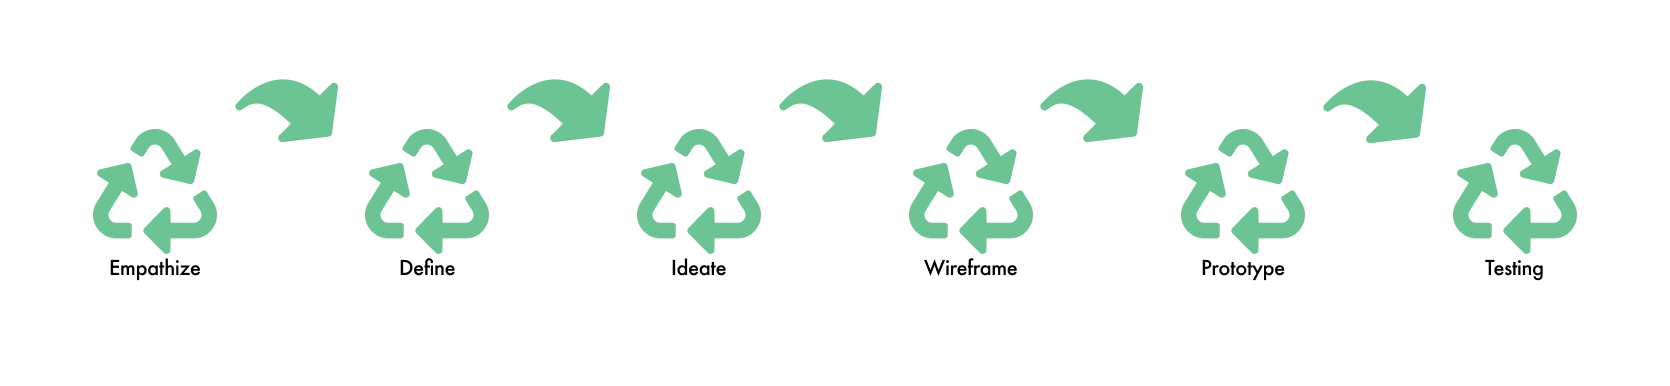
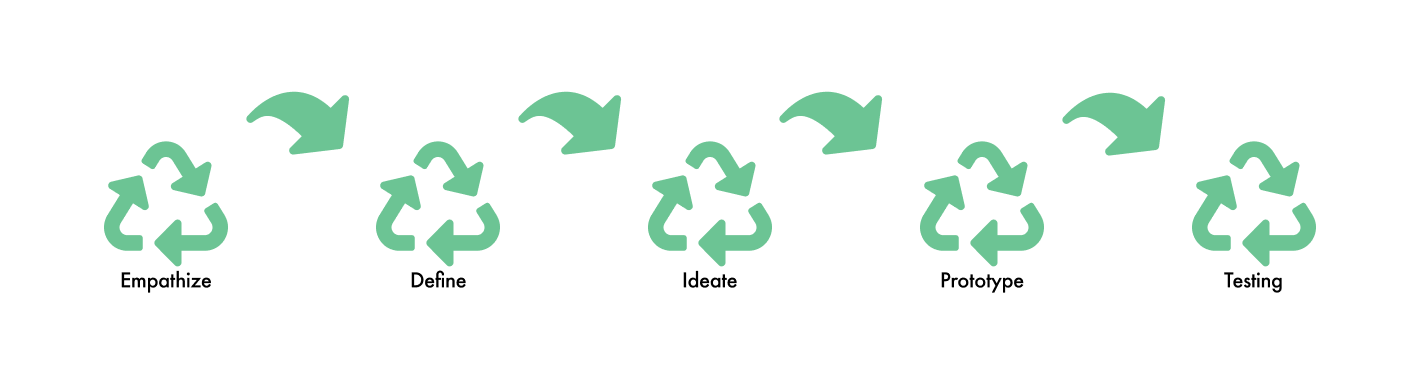
dec 23

diff --git a/wastefree.html b/wastefree.html
@@ -35,7 +35,7 @@
     <div class="main-content">
         <div class="introduction">
             <p style="font-family: 'Segoe UI', Tahoma, Geneva, Verdana, sans-serif; font-size: 2rem;">WasteFree</p>
-            <p style="font-size: 1.2rem;">As Global Warming continues year after year. We need to do someting to protect mother earth. I make take-out orders every week, and I usually have a hard time recycling. I asked some of my friends who order deliveries a lot and also have problems sorting different materials since there are so many different types of recycled materials out there. That's why I create this WasteFree app, which can help people recycle better.</p>   
+            <p style="font-size: 1.2rem;">Due to a family visit to San Francisco, I spent a week in downtown SF.  I noticed that the building where I was staying near Union Square, even has two separate trash chutes(recycle and waste), but I still can see people throwing to-go boxes in the waste chute.  As Global Warming continues year after year. I think we need to figure out a way that helps people recycle better. </p>   
         </div>
         <div class="role-intro">
             <div class='role-title'>
@@ -52,13 +52,14 @@
             </div>
             <img src="images/project-recycle/hero-image.png" alt="hero image">  
         </div>
+        <p style="font-size: 1.2rem;">Based on my experience, I came up with some hypotheses that why people don't recycle. What challenges do they face? What are the goals do I want to accomplish.</p>
         <div class="problem">
-            <h2>Problems</h2>
+            <h2>Challenges</h2>
             <div>
                 <p class="problem-content">
                     <ul>
-                        <li>People don't know where to find the recycle information</li>
-                        <li>People are overwhelmed by all the recycling information</li>
+                        <li>Sort waste is time-consuming.</li>
+                        <li>No one tells them whether they do it right or wrong.</li>
                     </ul>
                 </p>
             </div>
@@ -68,8 +69,7 @@
             <div>
                 <p class=goal-content"">
                     <ul>
-                        <li>Encourage people to sort waste</li>
-                        <li>Educate people to recycle correctly</li>
+                        <li>Educate people to recycle correctly.</li>
                     </ul> 
                 </p>
             </div>
@@ -79,18 +79,24 @@
             <img src="images/project-recycle/design-process.png" alt="design process image">
         </div>
         <div class="empathize">
-            <h2>Empathize</h2>
-            <p>I interviewed 5 people to get a better understanding of how do they recycle. From the results, I distilled their behaviors into personas that I got these two type of users.</p>
-            <img src="images/project-recycle/persona.png" alt="userpersonas">
-            <h2>Define</h2>
-            <p>According to the data I got from 5 people I interviewed. Users' problems didn't change, However, I added One more goal to my app.</p>
+            <h2>1. Empathize</h2>
+            <p>With the above hypotheses in mind, I interviewed five people to better understand users' challenges. Interviees aging 22-46 years old are working in different fields and order to-go meals every week. They are my target users. The finding are shocking.</p>
+            <p style="font-size: 1.2rem; font-weight: 600;">Key Findings: <a style="font-size: 0.8rem; color:blue; text-decoration: underline;" href="https://docs.google.com/spreadsheets/d/1Up2N3r5jWXDqXTjsJuFLJjip0Img81lVeabAAAy2P-c/edit?usp=sharing">Click to check out the whole interview</a></p>
+            <ul>
+                <li>People who think recycling is easy but think they didn't do it right.</li>
+                <li>People recycle materials based on their experience.</li>
+                <li>People have a hard time telling if some materials are recyclable.</li>
+            </ul>
+            <img src="images/project-recycle/user-keyfindings.png" alt="user interview key findings">
+            <h2>2. Define</h2>
+            <p>According to the data I got from 5 people I interviewed. I defined the user problems and goals.</p>
             <div class="problems">
                 <h3 style="text-align: center;">Problems Defined After User Research</h3>
                 <div>
                     <p class="problem-content">
                         <ul>
-                            <li>People don't know where to find the recycle information</li>
-                            <li>People are overwhelmed by all the recycling information</li>
+                            <li>People have a hard time finding recycled information through recycling websites.</li>
+                            <li>People are overwhelmed by all the recycling information.</li>
                         </ul>
                     </p>
                 </div>
@@ -98,57 +104,64 @@
         </div>
             <div class="goals">
                 <div class="goal-changed-1">
-                    <h3>Goals Before User Research</h3>
+                    <h3 style="text-align: center;">Goals Before User Research</h3>
                     <div>
                         <p class=goal-content"">
                             <ul>
-                                <li>Encourage people to sort waste</li>
                                 <li>Educate people to recycle correctly</li>
                             </ul> 
                         </p>
                     </div>
                 </div>
                 <div class="goal-changed">
-                    <h3>Goals After User Research</h3>
+                    <h3 style="text-align: center;">Goals After User Research</h3>
                     <div>
                         <p class=goal-content"">
                             <ul>
-                                <li>Encourage people to sort waste</li>
-                                <li>Educate people to recycle correctly</li>
-                                <li>Find volunteering opportunities</li>
+                                <li>Find an easier way to help people to sort waste.</li>
+                                <li>Encourage people to recycle better.</li>
                             </ul> 
                         </p>
                     </div>
                 </div>
             </div>
+            <img src="images/project-recycle/Userpersona.png" alt="user persona" class="persona">
         <div class="competitive-audit">
             <h3>Competitive Audit</h3>
-            <p>Most sustainability-related applications online right now such as <span style="color: darkgreen; font-size:1.5rem; font-weight: 600; font-style: italic">iRecycle, Recycle Coach, Recycle! </span> are focused on tracking recycling trucks and locating your nearby recycling bins. I dug into user's reviews from those competitor apps, finding out to keep my app "clean, clear and easy to use". Those user liked features will be the top priorities of this Wastefree app.</p>
-            <img src="images/project-recycle/competitior.png" alt="competitor-audit">
-            <img src="images/project-recycle/user-experience.png" alt="user-reviews-from-competitor">
+            <p>Most sustainability-related applications online right now such as <span style="color: darkgreen; font-size:1.5rem; font-weight: 600; font-style: italic">iRecycle, Recycle Coach, Recycle! </span> are focused on tracking recycling trucks and locating your nearby recycling bins. I dug into user's reviews from those competitor apps,and did a competitive analysis and found out the following:</p>
+            <p style="font-size: 1.2rem; font-weight: 600;">Key Findings: 
+            <ul>
+                <li>Users think a reminder of recycling pick-up is a great touch but sometimes the reminder is not accurate.</li>
+                <li>Users like the feature of "find nearby recycling center".</li>
+                <li>There should have a sorting guide that users can search a specific material.</li>
+            </ul>
+            <h4>Some good features from competitors apps</h4>
+            <img src="images/project-recycle/competitive-audit.png" alt="Competitor Audit">
+            <h3>Because the goal of the WasteFree app is to find an easier way to help people to sort waste and to educate people to recycle better. I combined users goals and competitive audit, accumulating the core features of my app:</h3>
+            <ol>
+                <li>Scan to sort waste:  Save users time to figure out which material is recyclable without scanning through all sorting guide.</li>
+                <li>Save scanned results:  Reinforce users to memorize the material next time.</li>
+                <li>Nearby Waste Disposable Center: Helps user to locate the recycling center and give directions on specific maps.</li>
+                <li>Recycling news: Helps users improve their sustainability and recycling rate.</li>
+                <li>Volunteering opportunity: Connects users with others to learn and recycle better in the future.</li>
+            </ol>
         </div>
         <div class="ideate">
-            <h2>Ideate</h2>
+            <h2>3. Ideate</h2>
             <p>To refine core features in Wastefree app, I used the Design Sprint method "Crazy Eight" to fast sketch 8 wireframes.</p>
             <div class="ideate-crazy8">
                 <img src="images/project-recycle/crazy8.jpg" alt="crazy-8-image1">
                 <img src="images/project-recycle/crazy81.jpg" alt="crazy-8-image2">
             </div>
-            <ol><h3>Core features include:</h3>
-                <li>Scan to sort waste</li>
-                <li>Save scanned results</li>
-                <li>Recycling news</li>
-                <li>Volunteer opportunities</li>
-                <li>Find nearby Waste Disposable Center</li>
-            </ol>
+            
         </div>
         <div class="wireframe">
             <h2>Wireframes</h2>
             <h3>User Flow</h3>
-            <p>Based on the core features above, below is the user flow when users interact with each feature.</p>
+            <p>Based on the core features above, below is the user flow when users interact with each feature. Tasks include: User gets sorting guide by scan a material, User checks out articles (News), User registers a volunteering event, User finds a recycling center.</p>
             <img src="images/project-recycle/userflow.png" alt="user-flow">
         </div>
-        <h3>Wireframe Highlights</h3>
+        <h3>Wireframe Highlights <a style="font-size: 0.8rem; color:blue; text-decoration: underline;" href="https://xd.adobe.com/view/8707604b-05c0-4bd7-ba16-b452401795eb-d254/?fullscreen">Click here to see wireframe prototype</a></h3>
         <div class="wireframes">
             <div class="wireframe-detail">
                 <img src="images/project-recycle/2.png" alt="wireframe image1">
@@ -165,7 +178,7 @@
             <div class="wireframe-detail">
                 <img src="images/project-recycle/3.png" alt="wireframe image3">
                 <div class="wireframe-padding">
-                    <p>Seach bar in helping users to find nearby disposal center easily</p>
+                    <p>Search bar in helping users to find nearby disposal center easily</p>
                 </div>
             </div>
             <div class="wireframe-detail">
@@ -175,74 +188,35 @@
                 </div>
             </div>
         </div>
+        <p style="font-size: 1.2rem; font-weight: bold">Usability Testing:</p>
+        <p>I interviewed the same 5 people to test out the wireframes. I interviewed each person and gave them tasks to see how their interaction with the wireframe. Most of the interviewees think the navigation is clear, one of them think there are too much information on the homepage which is distracting. Here are some key findings during the interview:</p>
+        <p style="font-size: 1rem; font-weight: bold;">Key Changes: <a style="font-size: 0.8rem; color:blue; text-decoration: underline;" href="https://docs.google.com/spreadsheets/d/1gEzl0SnVfP6jjlpmkf-q57HSiGqUEFOgyJmO8X5lu24/edit?usp=sharing">Click to check out the whole interview</a></p>
+        <ul>
+            <li>I removed all distracting information and moved the menu from the bottom to the top left corner. Makes the landing page clean and clear.</li>
+            <li>Since users only scan materials when they are not sure which material is recyclable, the "Similar Materials" feature is unnecessary, so I removed it to keep the app simple.</li>
+            <li>During User interview, 3 users wish to add registered volunteering events to user account, so that I added "Registered Volunteering" under my account.</li>
+        </ul>
+        <img src="images/project-recycle/Affinity-Diagram.jpg" alt="Affinity-Diagram" class="Affinity-Diagram">
         <div class="prototype">
-            <h2>Prototype (Color Palette & Typography)</h2>
+            <h2>4. Prototype (Color Palette & Typography)</h2>
             <p>Moodboard & Color Palette: I picked a couple of words that can express the meaning of eco-friendly to create my moodboard. Words such as <span style="font-size: 1.2rem; font-style: italic; color: darkgreen; font-weight: 600;">Green, Minimalism, Recycle, Sustainable, Earth, Planet.</span> </p>
             <img src="images/project-recycle/color-palette.png" alt="color-palette">
             <p>For Typeface, I chose Futura and DIN Condensed for their simplicity, classicism and modernity. </p>
             <img src="images/project-recycle/typeface.png" alt="typography">
-            <h3>Before I dive into Visual Design, I did the <span style="font-size: 1.2rem; font-style: italic; color: darkgreen; font-weight: 600;">First Usability Test </span> for Wastefree Wireframes. I interviewed those 5 people to finish a task(based on each user flow), here is what I found and changed. </h3>
-            <img id="diagram" src="images/project-recycle/Insights-Diagram.png" alt="diagram">
-            <h3>Conclusion:</h3>
-            <ol>
-                <li>I removed all distracting information and moved the menu from the bottom to the top left corner. Makes the landing page clean and clear.</li>
-                <div class='before-after-content'>
-                    <div class="before">
-                        <h3>Before</h3>
-                        <img style="border: 1px solid grey; width: 38%;" src="images/project-recycle/before1.png" alt="homepage before">
-                    </div>
-                    <div class="after">
-                        <h3>After</h3>
-                        <img src="images/project-recycle/homepage.png" alt="homepage after">
-                    </div>
-                </div>
-                <li>During my observation of the User interview, I noticed that users only scan materials when they are not sure which material is recyclable, they had never clicked the "Similar Materials", so I removed it to keep the app simple.</li>
-                <div class='before-after-content'>
-                    <div class="before">
-                        <h3>Before</h3>
-                        <img style="border: 1px solid grey; width: 38%;" src="images/project-recycle/before2.png" alt="result before">
-                    </div>
-                    <div class="after">
-                        <h3>After</h3>
-                        <img src="images/project-recycle/result.png" alt="result after">
-                    </div>
-                </div>
-                <li>During User interview, 3 users wish to add registered volunteering events to user account, so that I added "Registered Volunteering" under my account.</li>
-                <div class='before-after-content'>
-                    <div class="before">
-                        <h3>Before</h3>
-                        <img style="border: 1px solid grey; width: 38%;" src="images/project-recycle/before3.png" alt="account before">
-                    </div>
-                    <div class="after">
-                        <h3>After</h3>
-                        <img src="images/project-recycle/added-volunteering.png" alt="account after">
-                    </div>
-                </div>
-                <li>Users wish they could save the disposal center in their account so that they can easily find it next time. </li>
-                <div class='before-after-content'>
-                    <div class="before">
-                        <h3>Before</h3>
-                        <img style="border: 1px solid grey; width: 38%;" src="images/project-recycle/before4.png" alt="get direction before">
-                    </div>
-                    <div class="after">
-                        <h3>After</h3>
-                        <img src="images/project-recycle/directions.png" alt="get direction after">
-                    </div>
-                </div>
-            </ol>
-            <h2>High-fidelity Prototype(Mockups)</h2>
+            <h2>Onboarding: High-fidelity Prototype</h2>
+            <img style="width:100%;" src="images/project-recycle/prototyping.jpg" alt="Prototyping">
             <h3>Mockups(Video)</h3>
             <center>
-                <video width="25%" height="25%" controls>
+                <video width="20%" height="20%" controls>
                     <source src="wastefree.mp4" type="video/mp4">
                 </video>
             </center>
-            <h3>More Mockups</h3>
-            <img style="width:100%;" src="images/project-recycle/mockups.png" alt="">
         </div>
+        <h2>5. Testing: </h2>
+        <p>I conducted a interview to test the low-fidelity prototype which is the wireframe, Key changes I pulled together above Stage 4 Prototype.</p>
         <div class="testing">
-            <h2>Testing</h2>
-            <p>I interviewed those 5 people who did my First Wireframe Usability Testing again. They were all able to finish all tasks I asked them to do.  I know to create a Minimum Viable Product, I need to increase my user scale, that will be the next step.</p>
+            <h2>Next Steps</h2>
+            <p>Since I create this project based on my personal experience and my target audiences are very specific(people would like to recycle better), but to help realistic global warming problem, I need to expand the range of my target audience, next step, I'll conduct another usability test and expand the range of my interviewees to see if this idea can reach more people's needs.</p>
         </div>
         <div class="next">
             <h2>What I learned</h2>

diff --git a/css/wastefree.css b/css/wastefree.css
@@ -39,7 +39,18 @@ a {
 img {
     width: 100%;
 }
-
+.Affinity-Diagram {
+    width: 80%;
+    display: block;
+    margin-left: auto;
+    margin-right: auto;
+}
+.persona {
+    width: 60%;
+    display: block;
+    margin-left: auto;
+    margin-right: auto;
+}
 .categories li:hover{
     background-color: #73facb;
 }
